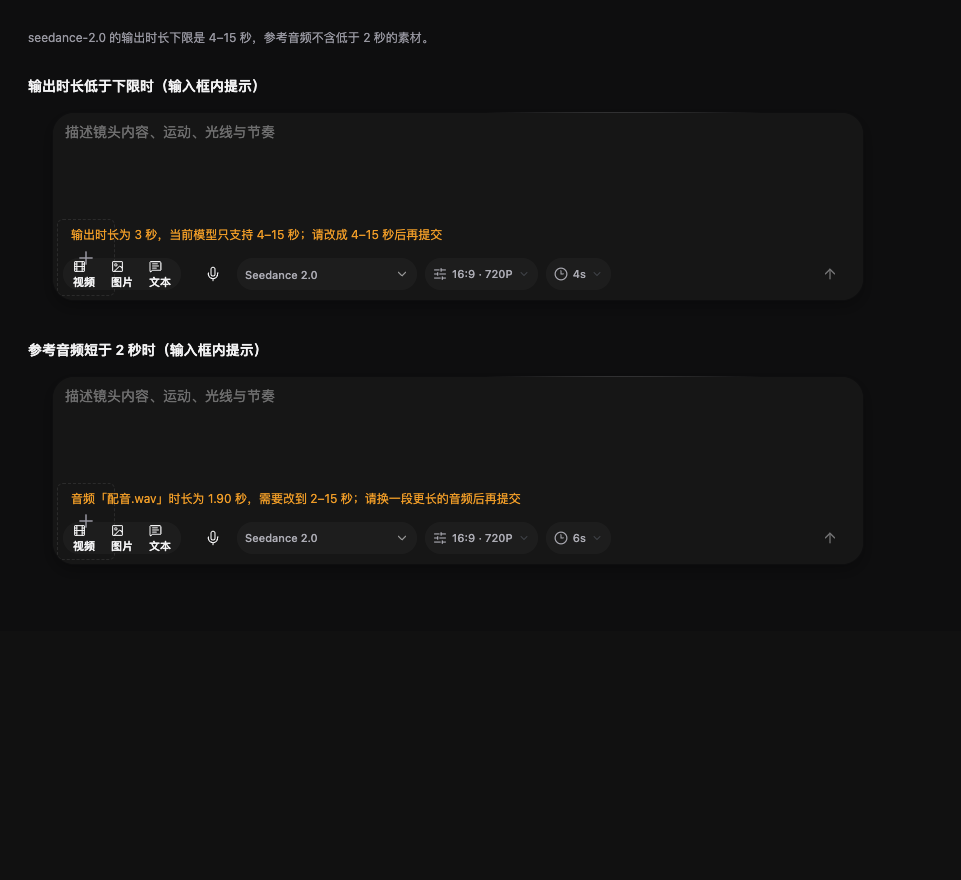
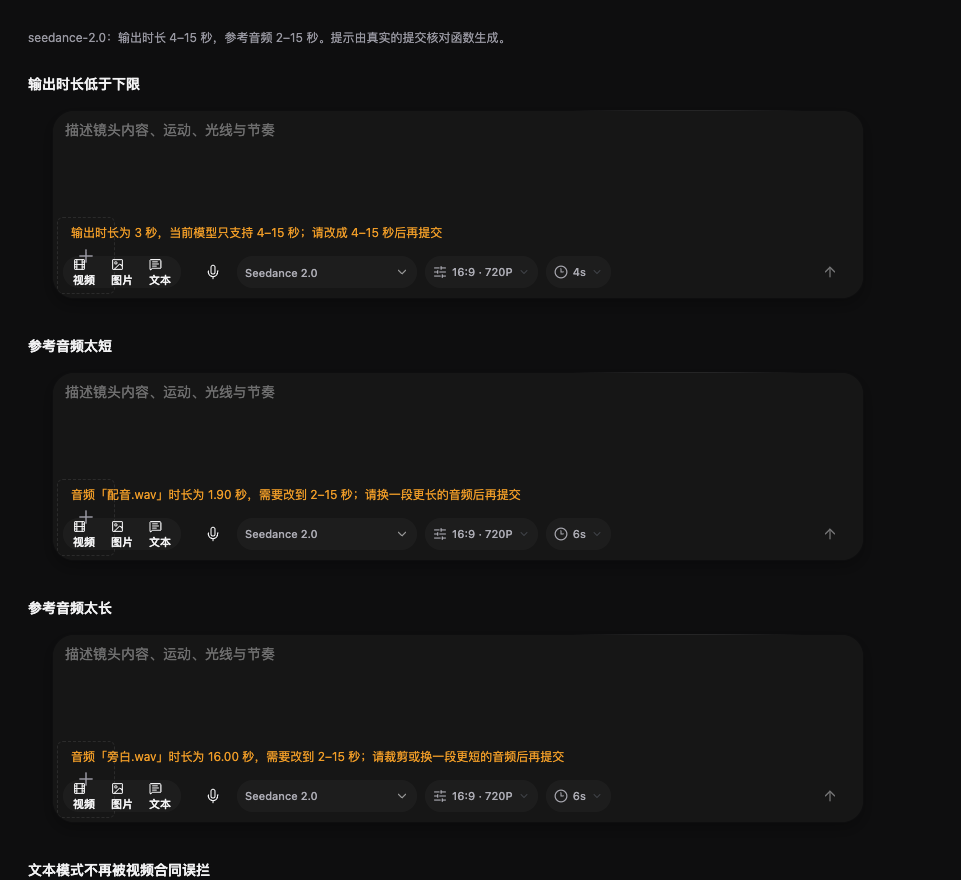
fix(video): 提交核对限定视频模式并按违反方向给时长建议

diff --git a/web/test/creation-submit-guard.test.ts b/web/test/creation-submit-guard.test.ts
@@ -1,0 +1,44 @@
+import { expect, test } from "bun:test";
+import { defaultModelCapabilityConfig, modelCapabilityConfigFor } from "../src/lib/model-capabilities";
+import { videoSubmitNotice } from "../src/pages/create/creation-submit-guard";
+import { createModelChannel, defaultConfig } from "../src/stores/use-config-store";
+
+const model = "seedance-2.0";
+const capabilityConfig = defaultModelCapabilityConfig("newapi", model);
+const channel = createModelChannel({ id: "beefapi", name: "BeefAPI", scope: "user", interfaceType: "newapi", baseUrl: "https://enterprise.beefapi.com", models: [model] });
+channel.modelProfiles = [{ model, displayName: model, capability: "video", protocol: "newapi", capabilityConfig }];
+const config = { ...defaultConfig, channels: [channel], model: `beefapi::${model}`, videoModel: `beefapi::${model}` };
+// 走真实读取路径：能力配置在读取时按官方下限收紧到 2 秒音频、4–15 秒输出。
+const video = modelCapabilityConfigFor(config, `beefapi::${model}`).video!;
+
+const image = (id: string) => ({ id, name: id, type: "image/png", dataUrl: "", width: 512, height: 512 });
+const audio = (id: string, durationMs?: number, storageKey?: string) => ({ id, name: `${id}.wav`, type: "audio/mpeg", url: `https://example.com/${id}.mp3`, durationMs, storageKey });
+// Seedance 2.0 不支持只用音频，带一张图更接近真实请求。
+const withImage = (audios: ReturnType<typeof audio>[]) => ({ referenceImages: [image("i0")], referenceVideos: [], referenceAudios: audios });
+const none = { referenceImages: [], referenceVideos: [], referenceAudios: [] };
+
+test("只有视频模式做这套核对，文本和图片提交不被视频合同误拦", () => {
+    // 文本模式残留 30 秒、还带着 10 张图，也不能报「输出时长为 30 秒」。
+    const tenImages = Array.from({ length: 10 }, (_, index) => image(`i${index}`));
+    expect(videoSubmitNotice("text", video, "30", { ...none, referenceImages: tenImages })).toBe("");
+    // Seedream 这类图片模型允许 14 张，不能被视频默认的 9 张上限拦下。
+    expect(videoSubmitNotice("image", video, "30", { ...none, referenceImages: tenImages })).toBe("");
+});
+
+test("视频模式下输出时长超范围时给出可照做的提示", () => {
+    expect(videoSubmitNotice("video", video, "3", none)).toContain("输出时长为 3 秒");
+    expect(videoSubmitNotice("video", video, "5", none)).toBe("");
+});
+
+test("素材库音频只有 resource: 标识、浏览器还没读到时长的，交给后端补查而不是判成无法读取", () => {
+    // 已有任务准备流程（generation-task.ts）会带 deferResourceMetadataToBackend 让后端读真实时长。
+    expect(videoSubmitNotice("video", video, "5", withImage([audio("library", undefined, "resource:voice")]))).toBe("");
+    // 本地导入、本来就该有时长却读不到的，仍然要提示重新导入。
+    expect(videoSubmitNotice("video", video, "5", withImage([audio("local", undefined)]))).toContain("时长无法读取");
+});
+
+test("参考音频过短说换更长，过长说裁短", () => {
+    expect(videoSubmitNotice("video", video, "5", withImage([audio("short", 1900)]))).toContain("请换一段更长的音频后再提交");
+    expect(videoSubmitNotice("video", video, "5", withImage([audio("long", 16000)]))).toContain("请裁剪或换一段更短的音频后再提交");
+    expect(videoSubmitNotice("video", video, "5", withImage([audio("ok", 3000)]))).toBe("");
+});

diff --git a/web/src/pages/create/index.tsx b/web/src/pages/create/index.tsx
@@ -14,9 +14,9 @@ import { assertUserScope, captureUserScope, userScopeMatches, type CapturedUserS
 import { continueCreationConversationOnCanvas } from "@/services/creation-canvas-conversation";
 import { isLocalWorkspaceMode } from "@/services/workspace-mode";
 import { useExternalAssetSources } from "@/hooks/use-external-asset-sources";
-import { modelCapabilityConfigFor, normalizeImageValue, normalizeVideoValue, videoDurationAllowed, videoDurationOptions } from "@/lib/model-capabilities";
+import { modelCapabilityConfigFor, normalizeImageValue, normalizeVideoValue, videoDurationOptions } from "@/lib/model-capabilities";
 import { inferVideoOperation, resolveCompatibleModel, mergedImageCapabilityConfig, type ModelRequirements } from "@/lib/model-selection";
-import { assertVideoCapability, outputDurationNotice } from "@/services/api/video-validation";
+import { videoSubmitNotice } from "./creation-submit-guard";
 import type { BackendGenerationResult } from "@/services/api/generation-task";
 import type { Skill } from "@/services/api/skills";
 import type { GenerationTask } from "@/services/api/task-center";
@@ -654,19 +654,14 @@ export default function CreatePage() {
         }
         // 后端对图片和视频使用不同的参考字段；先拆分，提交前核对也用它。
         const { referenceImages, referenceVideos, referenceAudios } = splitCreationAttachments(attachments);
-        if (mode === "video" && !videoDurationAllowed(videoProfile, Number(seconds))) {
-            // 右上角 Toast 被全局 CSS 隐藏，提示改成输入框内始终可见的说明。
-            setComposerNotice(outputDurationNotice(videoProfile, seconds));
-            releaseRetryLock();
-            return;
-        }
-        try {
-            // 参考素材和时长在提交前先按模型合同核对一次，避免先建一条失败消息再报错。
-            assertVideoCapability(videoProfile, referenceImages, referenceVideos, referenceAudios, seconds);
-        } catch (error) {
-            setComposerNotice(error instanceof Error ? error.message : "参考内容不符合当前模型要求，请调整后再提交");
-            releaseRetryLock();
-            return;
+        if (mode === "video") {
+            const notice = videoSubmitNotice(mode, videoProfile, seconds, { referenceImages, referenceVideos, referenceAudios });
+            if (notice) {
+                // 右上角 Toast 被全局 CSS 隐藏，提示改成输入框内始终可见的说明。
+                setComposerNotice(notice);
+                releaseRetryLock();
+                return;
+            }
         }
         if (attachments.length > maxReferences) {
             toast.warning("参考内容正在按当前模型能力调整，请稍后重试");

diff --git a/web/src/services/api/video-validation.ts b/web/src/services/api/video-validation.ts
@@ -55,8 +55,10 @@ export function assertReferenceDuration(kind: "音频" | "视频", index: number
     if (!Number.isFinite(durationMs) || !durationMs || durationMs <= 0) throw new Error(`${label}的时长无法读取，请重新导入素材后再提交`);
     const minMs = Math.round(minimum * 1000);
     const maxMs = maximum > 0 ? Math.round(maximum * 1000) : 0;
-    if (durationMs < minMs || (maxMs > 0 && durationMs > maxMs)) {
-        throw new Error(`${label}时长为 ${(durationMs / 1000).toFixed(2)} 秒，需要改到 ${durationRequirement(minimum, maximum)}；${durationFixAction(kind, minimum)}`);
+    // 按实际违反的是下限还是上限给建议：2–15 秒的限制下，16 秒的素材要往短改。
+    const tooShort = durationMs < minMs;
+    if (tooShort || (maxMs > 0 && durationMs > maxMs)) {
+        throw new Error(`${label}时长为 ${(durationMs / 1000).toFixed(2)} 秒，需要改到 ${durationRequirement(minimum, maximum)}；${durationFixAction(kind, tooShort)}`);
     }
 }
 
@@ -72,9 +74,9 @@ function referenceBound(minimum: number, maximum: number) {
     return `${minimum}–${maximum}`;
 }
 
-function durationFixAction(kind: "音频" | "视频", minimum: number) {
-    if (minimum > 0) return kind === "音频" ? "请换一段更长的音频后再提交" : "请换一段更长的视频后再提交";
-    return kind === "音频" ? "请裁剪或换一段更短的音频后再提交" : "请裁剪或换一段更短的视频后再提交";
+function durationFixAction(kind: "音频" | "视频", tooShort: boolean) {
+    const noun = kind === "音频" ? "音频" : "视频";
+    return tooShort ? `请换一段更长的${noun}后再提交` : `请裁剪或换一段更短的${noun}后再提交`;
 }
 
 // 输出时长不在模型范围内时的提示，写清现在的值和可选的时长。

diff --git a/web/src/pages/create/creation-submit-guard.ts b/web/src/pages/create/creation-submit-guard.ts
@@ -1,0 +1,31 @@
+import { videoDurationAllowed, type VideoCapabilityConfig } from "@/lib/model-capabilities";
+import type { ReferenceAudio, ReferenceVideo } from "@/types/media";
+import type { ReferenceImage } from "@/types/image";
+import { assertVideoCapability, outputDurationNotice } from "@/services/api/video-validation";
+import type { CreationMode } from "./creation-assets";
+
+export type VideoSubmitReferences = {
+    referenceImages: ReferenceImage[];
+    referenceVideos: ReferenceVideo[];
+    referenceAudios: ReferenceAudio[];
+};
+
+// 提交前的本地核对只对视频生效：文本和图片的附件上限由各自的面板处理，
+// 用视频合同去核对它们会拿 9 张图的上限误拦 Seedream 允许的 14 张，
+// 也会把文本模式残留的时长当成错误。素材库里只有 resource: 标识、浏览器
+// 还没读到时长的音频/视频交给后端补查，不能在这里判成「时长无法读取」。
+export function videoSubmitNotice(
+    mode: CreationMode,
+    profile: VideoCapabilityConfig,
+    seconds: string,
+    references: VideoSubmitReferences,
+): string {
+    if (mode !== "video") return "";
+    if (!videoDurationAllowed(profile, Number(seconds))) return outputDurationNotice(profile, seconds);
+    try {
+        assertVideoCapability(profile, references.referenceImages, references.referenceVideos, references.referenceAudios, seconds, { deferResourceMetadataToBackend: true });
+    } catch (error) {
+        return error instanceof Error ? error.message : "参考内容不符合当前模型要求，请调整后再提交";
+    }
+    return "";
+}

diff --git a/web/test/video-reference-duration.test.ts b/web/test/video-reference-duration.test.ts
@@ -47,6 +47,9 @@ for (const protocol of ["newapi-channel-2", "newapi", "openai"] as const) {
             expect(() => assertVideoCapability(profile, validImages, [], [audio(1700)], "5")).toThrow("1.70");
             expect(() => assertVideoCapability(profile, validImages, [], [audio(1800)], "5")).toThrow("1.80");
             expect(() => assertVideoCapability(profile, validImages, [], [audio(2000)], "5")).not.toThrow();
+            // 过长要说裁短，过短才说换更长；照做才能通过。
+            const tooLong = (profile.references.maxAudioDurationSeconds + 1) * 1000;
+            expect(() => assertVideoCapability(profile, validImages, [], [audio(tooLong)], "5")).toThrow("请裁剪或换一段更短的音频后再提交");
             // 只有序号没有素材名时退回序号写法。
             expect(() => assertReferenceDuration("音频", 1, 900, 2, 0)).toThrow("第 2 段参考音频时长为 0.90 秒");
             const failure = explainGenerationError("音频「配音.wav」时长为 0.90 秒，需要改到 2 秒以上；请换一段更长的音频后再提交");

diff --git a/backend/internal/modelcatalog/capability.go b/backend/internal/modelcatalog/capability.go
@@ -795,8 +795,10 @@ func validateReferenceDuration(kind string, index int, durationMs int64, minimum
 	if durationMs <= 0 {
 		return kernel.BadAuthRequest(fmt.Sprintf("第 %d 段参考%s的时长无法读取，请重新导入素材后再提交", index+1, kind))
 	}
-	if durationMs < durationLimitMs(minimum) || (maximum > 0 && durationMs > durationLimitMs(maximum)) {
-		return kernel.BadAuthRequest(fmt.Sprintf("第 %d 段参考%s时长为 %.2f 秒，需要改到 %s；%s", index+1, kind, float64(durationMs)/1000, durationRequirement(minimum, maximum), durationFixAction(kind, minimum, maximum)))
+	// 按实际违反的是下限还是上限给建议：2–15 秒的限制下，16 秒的素材要往短改。
+	tooShort := durationMs < durationLimitMs(minimum)
+	if tooShort || (maximum > 0 && durationMs > durationLimitMs(maximum)) {
+		return kernel.BadAuthRequest(fmt.Sprintf("第 %d 段参考%s时长为 %.2f 秒，需要改到 %s；%s", index+1, kind, float64(durationMs)/1000, durationRequirement(minimum, maximum), durationFixAction(kind, tooShort)))
 	}
 	return nil
 }
@@ -812,22 +814,13 @@ func durationRequirement(minimum, maximum float64) string {
 	return formatDurationBound(minimum) + "–" + formatDurationBound(maximum) + " 秒"
 }
 
-// durationFixAction 给出可直接照做的下一步，而不是笼统的「重新提交」。
-func durationFixAction(kind string, minimum, maximum float64) string {
-	if kind == "音频" {
-		if minimum > 0 {
-			return "请换一段更长的音频后再提交"
-		}
-		return "请裁剪或换一段更短的音频后再提交"
+// durationFixAction 按实际违反的是哪一侧给出可直接照做的下一步。
+func durationFixAction(kind string, tooShort bool) string {
+	noun := kind
+	if tooShort {
+		return "请换一段更长的" + noun + "后再提交"
 	}
-	switch {
-	case minimum > 0 && maximum > 0:
-		return "请裁剪到这段区间内或换一段后再提交"
-	case minimum > 0:
-		return "请换一段更长的视频后再提交"
-	default:
-		return "请裁剪到上限以内或换一段更短的视频后再提交"
-	}
+	return "请裁剪或换一段更短的" + noun + "后再提交"
 }
 
 func validateVideoTask(profile *VideoCapabilityConfig, input TaskInput) error {

diff --git a/backend/internal/app/reference_bounds_test.go b/backend/internal/app/reference_bounds_test.go
@@ -42,7 +42,13 @@ func TestReferenceDurationIndependentBounds(t *testing.T) {
 		min, max float64
 		want     string
 	}{
-		{16000, 0, 15, "需要改到 15 秒以内；请裁剪或换一段更短的音频后再提交"}, {1000, 2, 0, "需要改到 2 秒以上；请换一段更长的音频后再提交"}, {0, 0, 0, ""}, {15000, 0, 15, ""}, {2000, 2, 0, ""},
+		{16000, 0, 15, "需要改到 15 秒以内；请裁剪或换一段更短的音频后再提交"},
+		{1000, 2, 0, "需要改到 2 秒以上；请换一段更长的音频后再提交"},
+		{0, 0, 0, ""}, {15000, 0, 15, ""}, {2000, 2, 0, ""},
+		// 2–15 秒的限制下，过短要换更长、过长要裁短，不能都给同一个建议。
+		{1900, 2, 15, "需要改到 2–15 秒；请换一段更长的音频后再提交"},
+		{16000, 2, 15, "需要改到 2–15 秒；请裁剪或换一段更短的音频后再提交"},
+		{16000, 2, 15, "第 1 段参考音频时长为 16.00 秒"},
 	} {
 		err := validateReferenceDuration("音频", 0, tc.duration, tc.min, tc.max)
 		if tc.want == "" {

diff --git a/docs/evidence/seedance-reference-limits-2026-10-26/README.md b/docs/evidence/seedance-reference-limits-2026-10-26/README.md
@@ -4,18 +4,24 @@
 
 ## 文件
 
-- `01-blocked-notice-in-composer.png`：两条被拦下时的提示都显示在输入框里、发送按钮上方，橙黄色、始终可见：
+- `01-blocked-notice-in-composer.png`：三条被拦下时的提示都显示在输入框里、发送按钮上方，橙黄色、始终可见。文案由真实的提交核对函数 `videoSubmitNotice` 生成：
   - 输出时长低于下限：「输出时长为 3 秒，当前模型只支持 4–15 秒；请改成 4–15 秒后再提交」
   - 参考音频太短：「音频「配音.wav」时长为 1.90 秒，需要改到 2–15 秒；请换一段更长的音频后再提交」
+  - 参考音频太长：「音频「旁白.wav」时长为 16.00 秒，需要改到 2–15 秒；请裁剪或换一段更短的音频后再提交」
 
-两句话都写清了哪一项、现在多少秒、要改成多少秒，以及下一步该做什么。
+几处都写清了哪一项、现在多少秒、要改成多少秒，以及下一步该做什么；过短和过长给的是相反且正确方向的建议。
 
 ## 为什么不放在右上角 Toast
 
 `web/src/styles/globals.css` 里有一条全局规则 `.ant-message, .ant-notification { display: none !important; }`，全站的右上角 Toast 都是隐藏的。所以被拦下的说明改成输入框内的 `creation-composer-notice`（`role="alert"`），在提交按钮之前渲染，和 PR #258 参考素材面板内的提示是同一个思路：不加新按钮，不加设置项。
 
+## 只在视频模式拦
+
+提交前的这套核对只对视频生效。文本模式残留的 30 秒、图片模型的 10 张参考图都不会被视频合同误拦（Seedream 允许 14 张）。素材库里只有 `resource:` 标识、浏览器还没读到时长的音频，交给后端补查真实时长（`deferResourceMetadataToBackend`），不提前判成「时长无法读取」。
+
 ## 覆盖
 
+- `web/test/creation-submit-guard.test.ts`：断言文本/图片模式不被视频合同拦、视频模式时长超范围给提示、`resource:` 素材交给后端补查、过短说过长/过长说裁短。
 - `web/test/creation-composer-notice.test.tsx`：断言提示渲染在输入框内、带 `role="alert"`、位置在发送按钮之前；没有提示时不渲染这段。
 - `web/test/video-reference-duration.test.ts`：断言提示文案包含素材名、当前秒数和目标范围，并能在对话记录里重新解释。
 - `backend/internal/app/model_capability_test.go`：`TestSeedanceReferenceAudioMessageNamesItemAndFix`、`TestSeedanceDocumentedOutputDurationFloor`，后端返回的同样是这份文案。
